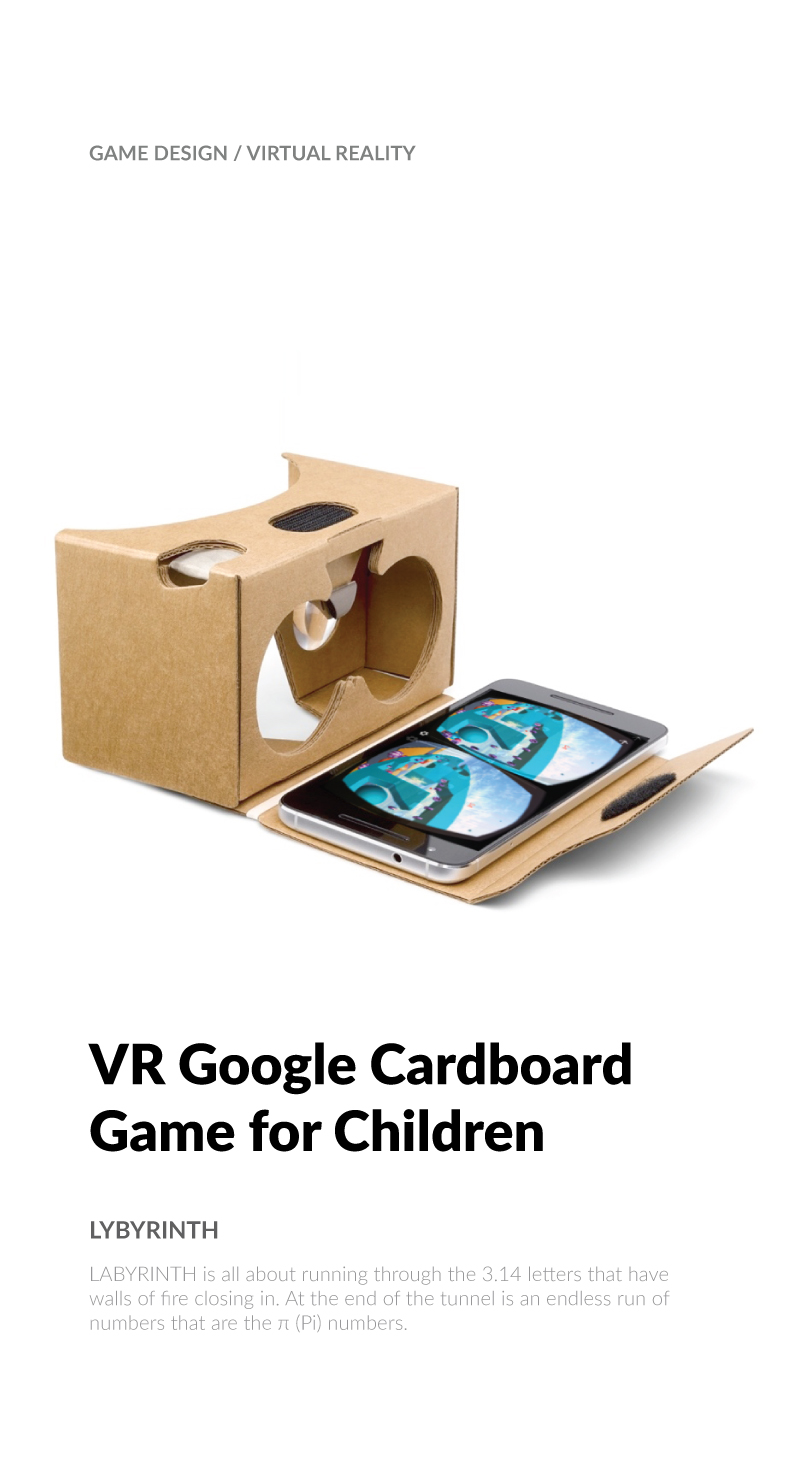
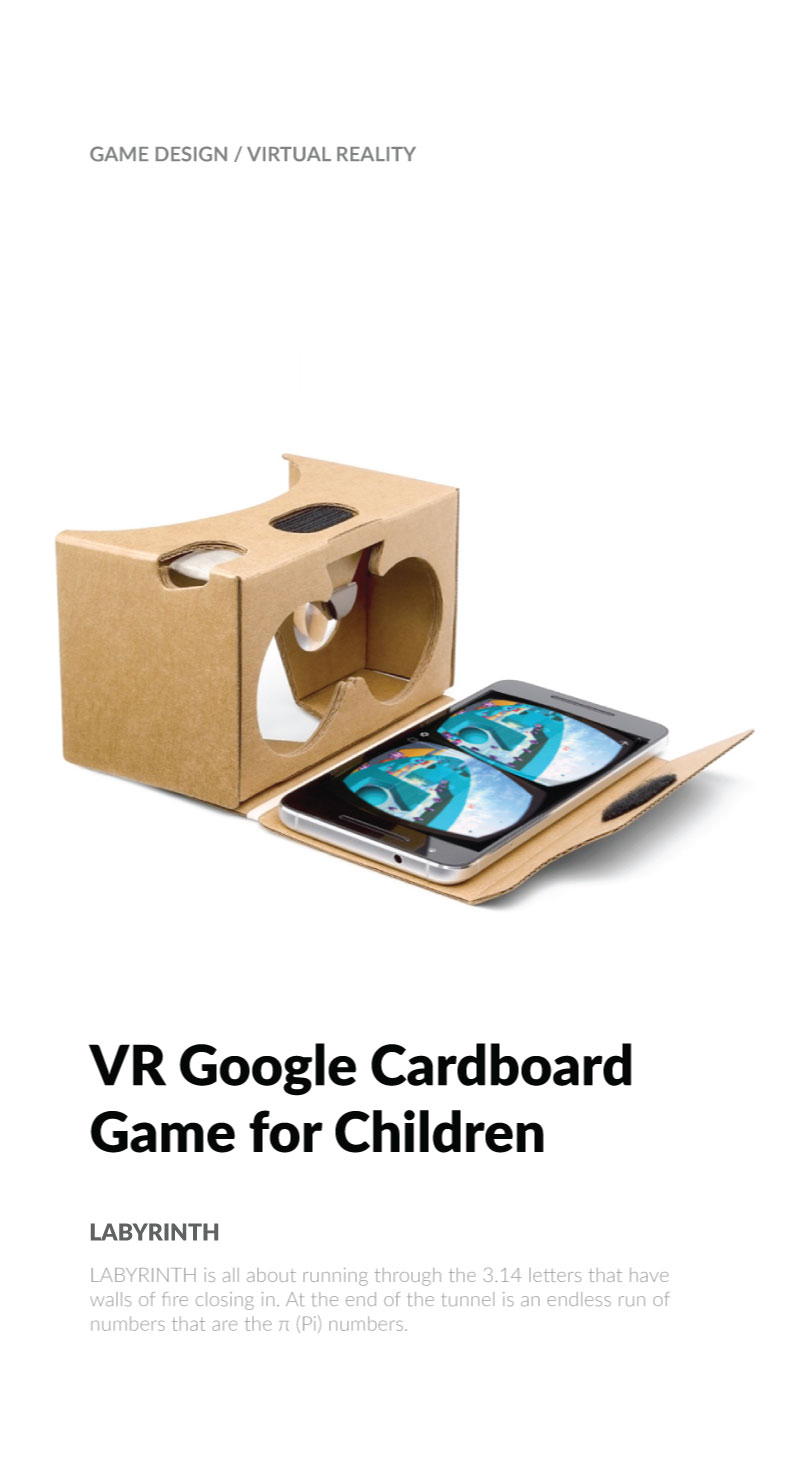
fix

diff --git a/index.html b/index.html
@@ -410,7 +410,7 @@ a {
                                      <div class="tiles">            
                                               <a href="#schadenfreude"><div class="tile" data-scale="1.02" data-image="img/sh1.jpg"></div></a>
                                               <a href="#qnh"><div class="tile" data-scale="1.02" data-image="img/qa1.jpg"></div></a>
-                                              <a href="#lybyrinth"><div class="tile" data-scale="1.02" data-image="img/pi1.jpg"></div></a>
+                                              <a href="#labyrinth"><div class="tile" data-scale="1.02" data-image="img/pi1.jpg"></div></a>
 
                                            <!-- <div class ="scrollfrom" >Scroll⏤</div> -->
                                       </div>
@@ -858,11 +858,11 @@ a {
             </div>
           </div>
 
-          <div id="lybyrinth" class="overlay">
+          <div id="labyrinth" class="overlay">
 
               <div class="popup">
 
-                <div class="content"> <img src = "img/pipi.png" width="1305px" > 
+                <div class="content"> <img src = "img/pipi.jpg" width="1305px" > 
                 
                   
                   <div class = "projectTitle">OVERVIEW</div>
